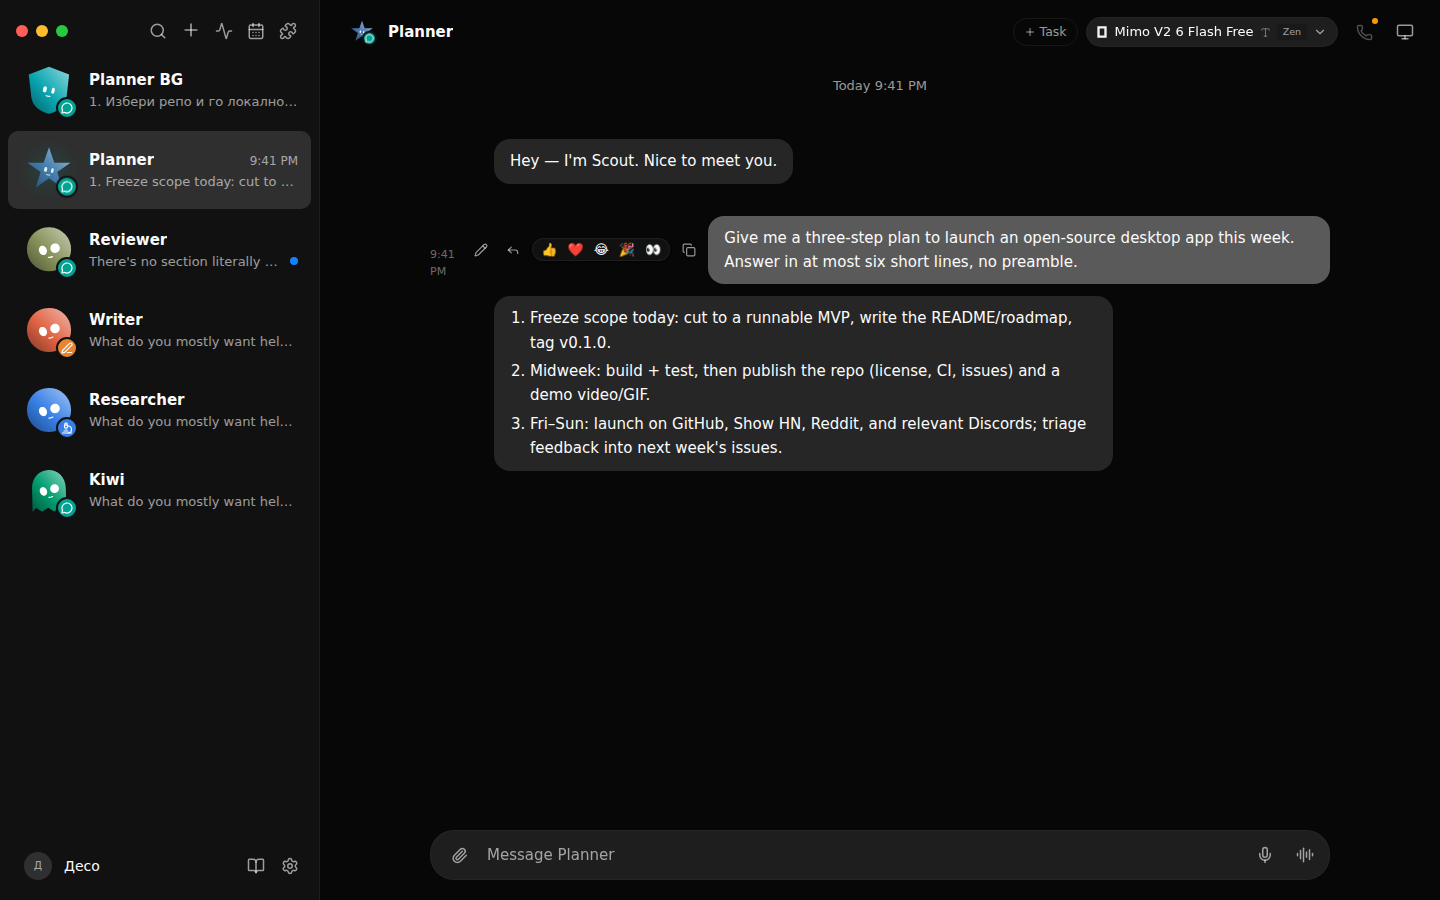
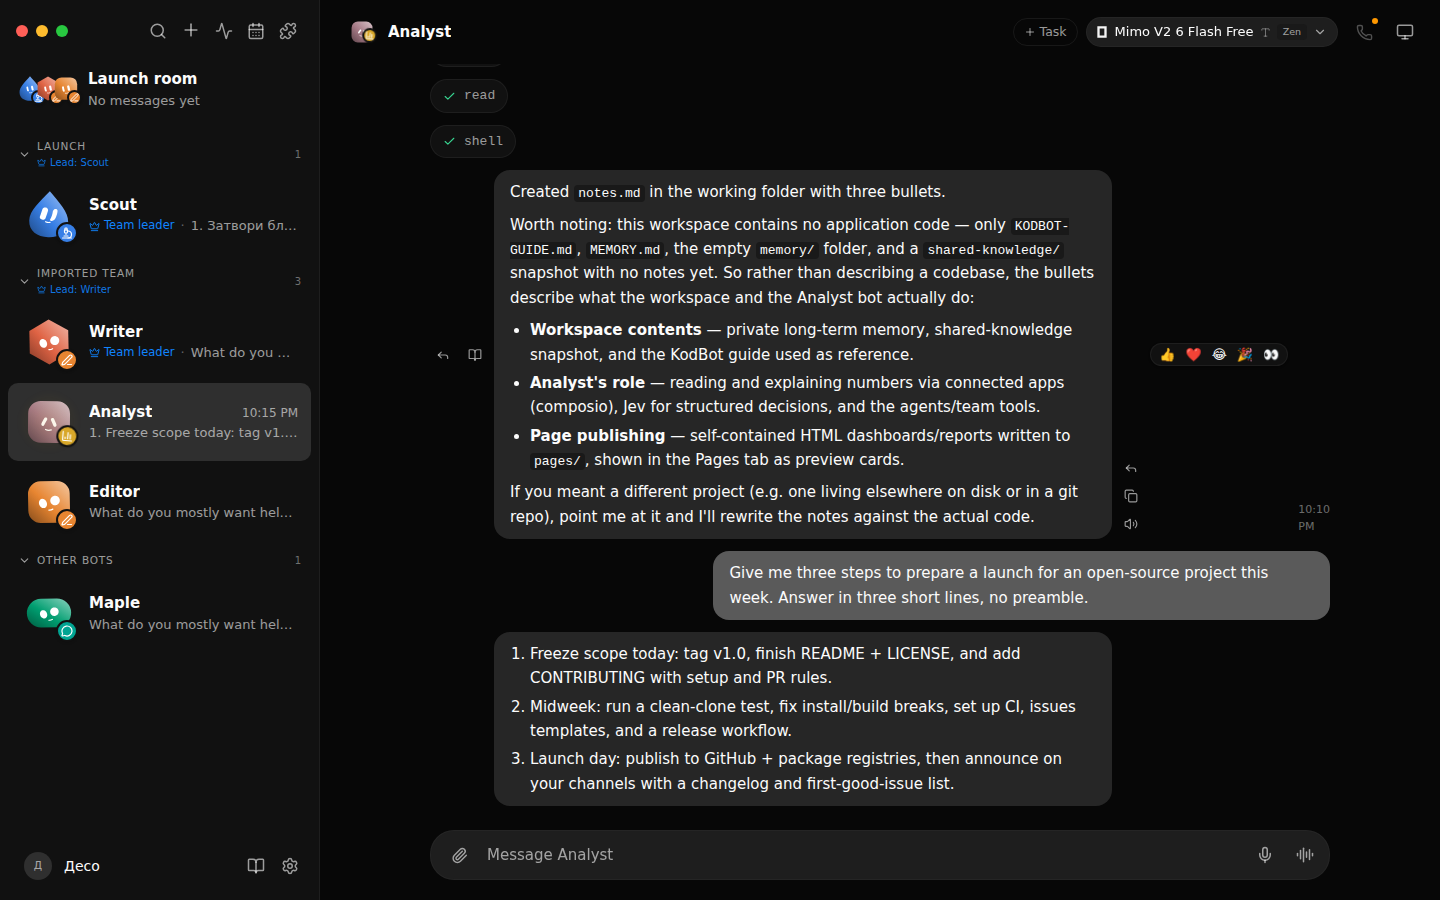
docs: fresh screenshots (hero, model picker) plus teams and engines

diff --git a/README.md b/README.md
@@ -103,6 +103,21 @@ ungrouped bots where you expect them.
 
 **Voice, optionally.** Read replies aloud and call your bots with an ElevenLabs key. macOS-only for calls today.
 
+<table>
+<tr>
+<td width="50%" valign="top">
+<img src="docs/screenshots/teams.png" alt="A team with a leader and a shared room" width="100%">
+</td>
+<td width="50%" valign="top">
+<img src="docs/screenshots/engines.png" alt="Settings, Engines: which local CLI each engine runs" width="100%">
+</td>
+</tr>
+<tr>
+<td><sub><b>Teams and rooms.</b> A leader, members, and one shared thread.</sub></td>
+<td><sub><b>Your own engines.</b> Point each provider at the CLI you already run.</sub></td>
+</tr>
+</table>
+
 More screenshots and details: [`docs/`](docs/).
 
 ## Under the hood
